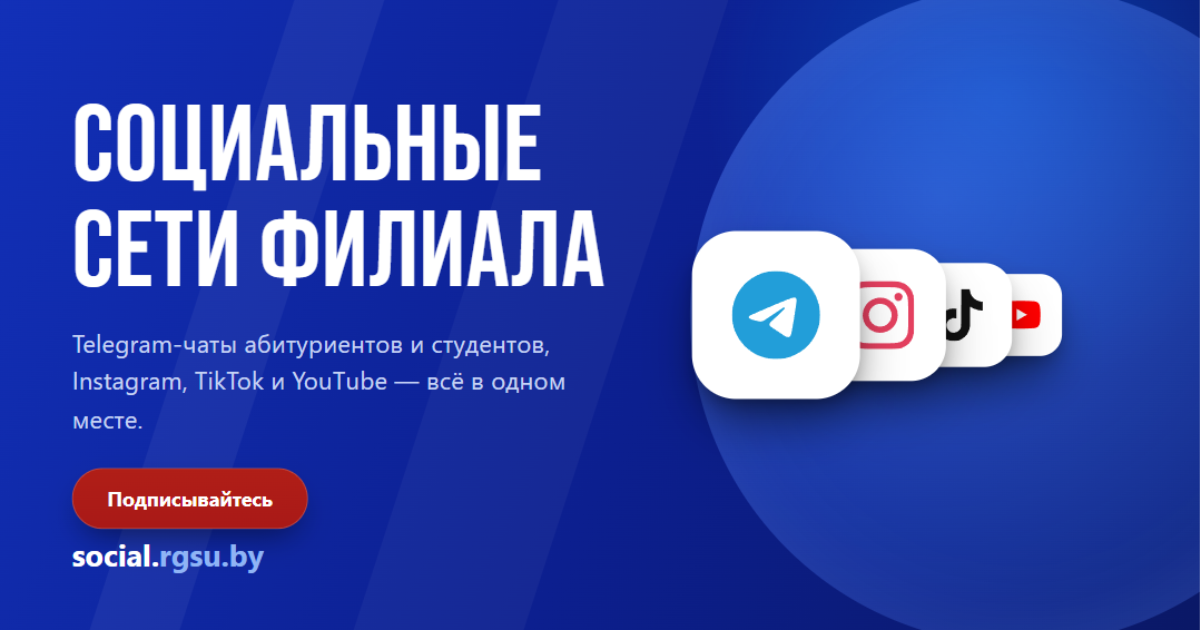
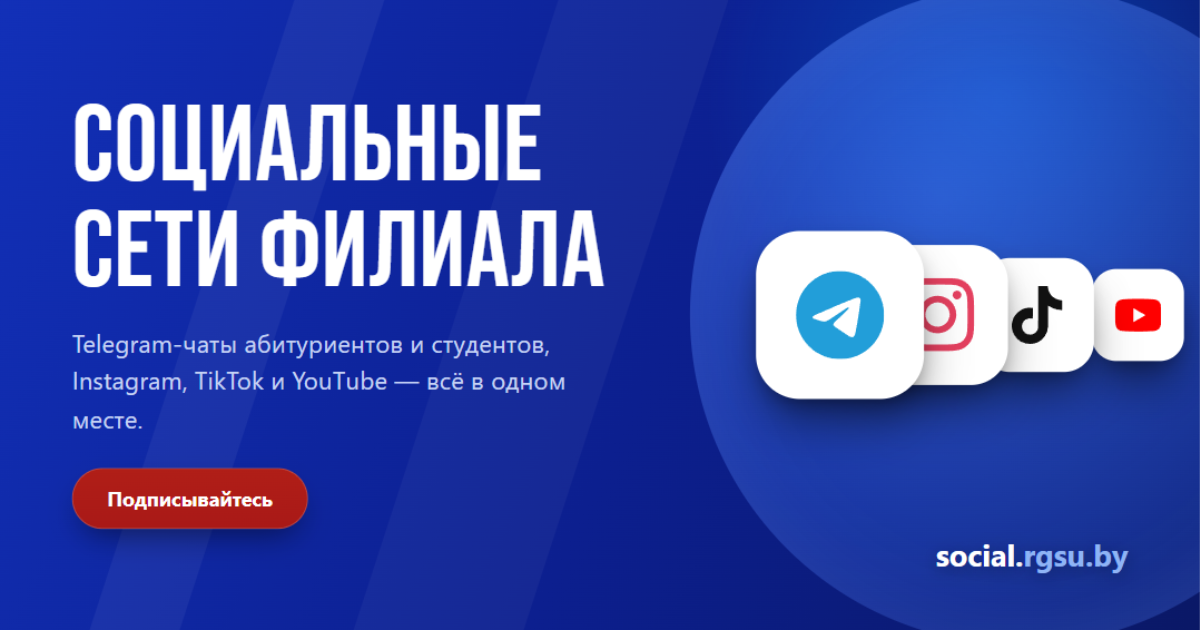
feat: og-image — плотная 3D-цепочка иконок сдвинута вправо, домен в правом нижнем углу

Changed region(s): [[0.555, 0.3619, 1.0, 0.6937], [0.7708, 0.8746, 0.9558, 0.9048], [0.0617, 0.8746, 0.2158, 0.9048]]

diff --git a/HANDOFF.md b/HANDOFF.md
@@ -17,7 +17,7 @@
 
 **НЕ ЗАБУДЬ СДЕЛАТЬ (по приоритету):**
 1. **Перегенерировать `public/favicon.png`** — он остался от старого квадратного дизайна. Порядок: создать в public файл-рендер `_favicon-render.html` (img 320×320 c /favicon.svg), открыть через dev-сервер, скриншот 320×320 → сохранить в public/favicon.png. Браузерные скриншоты иногда таймаутят — повторять.
-2. **OG-image — готово:** `public/og-image.png` (1200×630) в стиле баннеров rgsu.by: слева Bebas-заголовок, подзаголовок, рубиновая CTA «Подписывайтесь» и домен social.rgsu.by; справа светлый круг и горизонтальная 3D-цепочка белых сквирклов с реальными иконками Telegram/Instagram/TikTok/YouTube (Simple Icons, брендовые цвета; передняя крупнее, дальние меньше и позади). OG/Twitter мета-теги в `index.html`. Перегенерация: собрать `public/_og-render.html` (скачать SVG с cdn.jsdelivr.net/npm/simple-icons, вписать fill), открыть на dev-сервере, скриншот 1200×630.
+2. **OG-image — готово:** `public/og-image.png` (1200×630) в стиле баннеров rgsu.by: слева Bebas-заголовок, подзаголовок, рубиновая CTA «Подписывайтесь»; справа светлый круг и горизонтальная 3D-цепочка белых сквирклов с реальными иконками Telegram/Instagram/TikTok/YouTube (Simple Icons, брендовые цвета; шаг 112px, размеры 168→140→114→92), домен social.rgsu.by — в правом нижнем углу. OG/Twitter мета-теги в `index.html`. Перегенерация: собрать `public/_og-render.html` (скачать SVG с cdn.jsdelivr.net/npm/simple-icons, вписать fill), открыть на dev-сервере, скриншот 1200×630.
 3. Пушить после каждого изменения (remote origin настроен).
 4. Идея на будущее: сайт филиала rgsu.by использует синий #1237B8 — решили НЕ заводить третий синий, у нас Pantone 286 C #102FA1.
 
